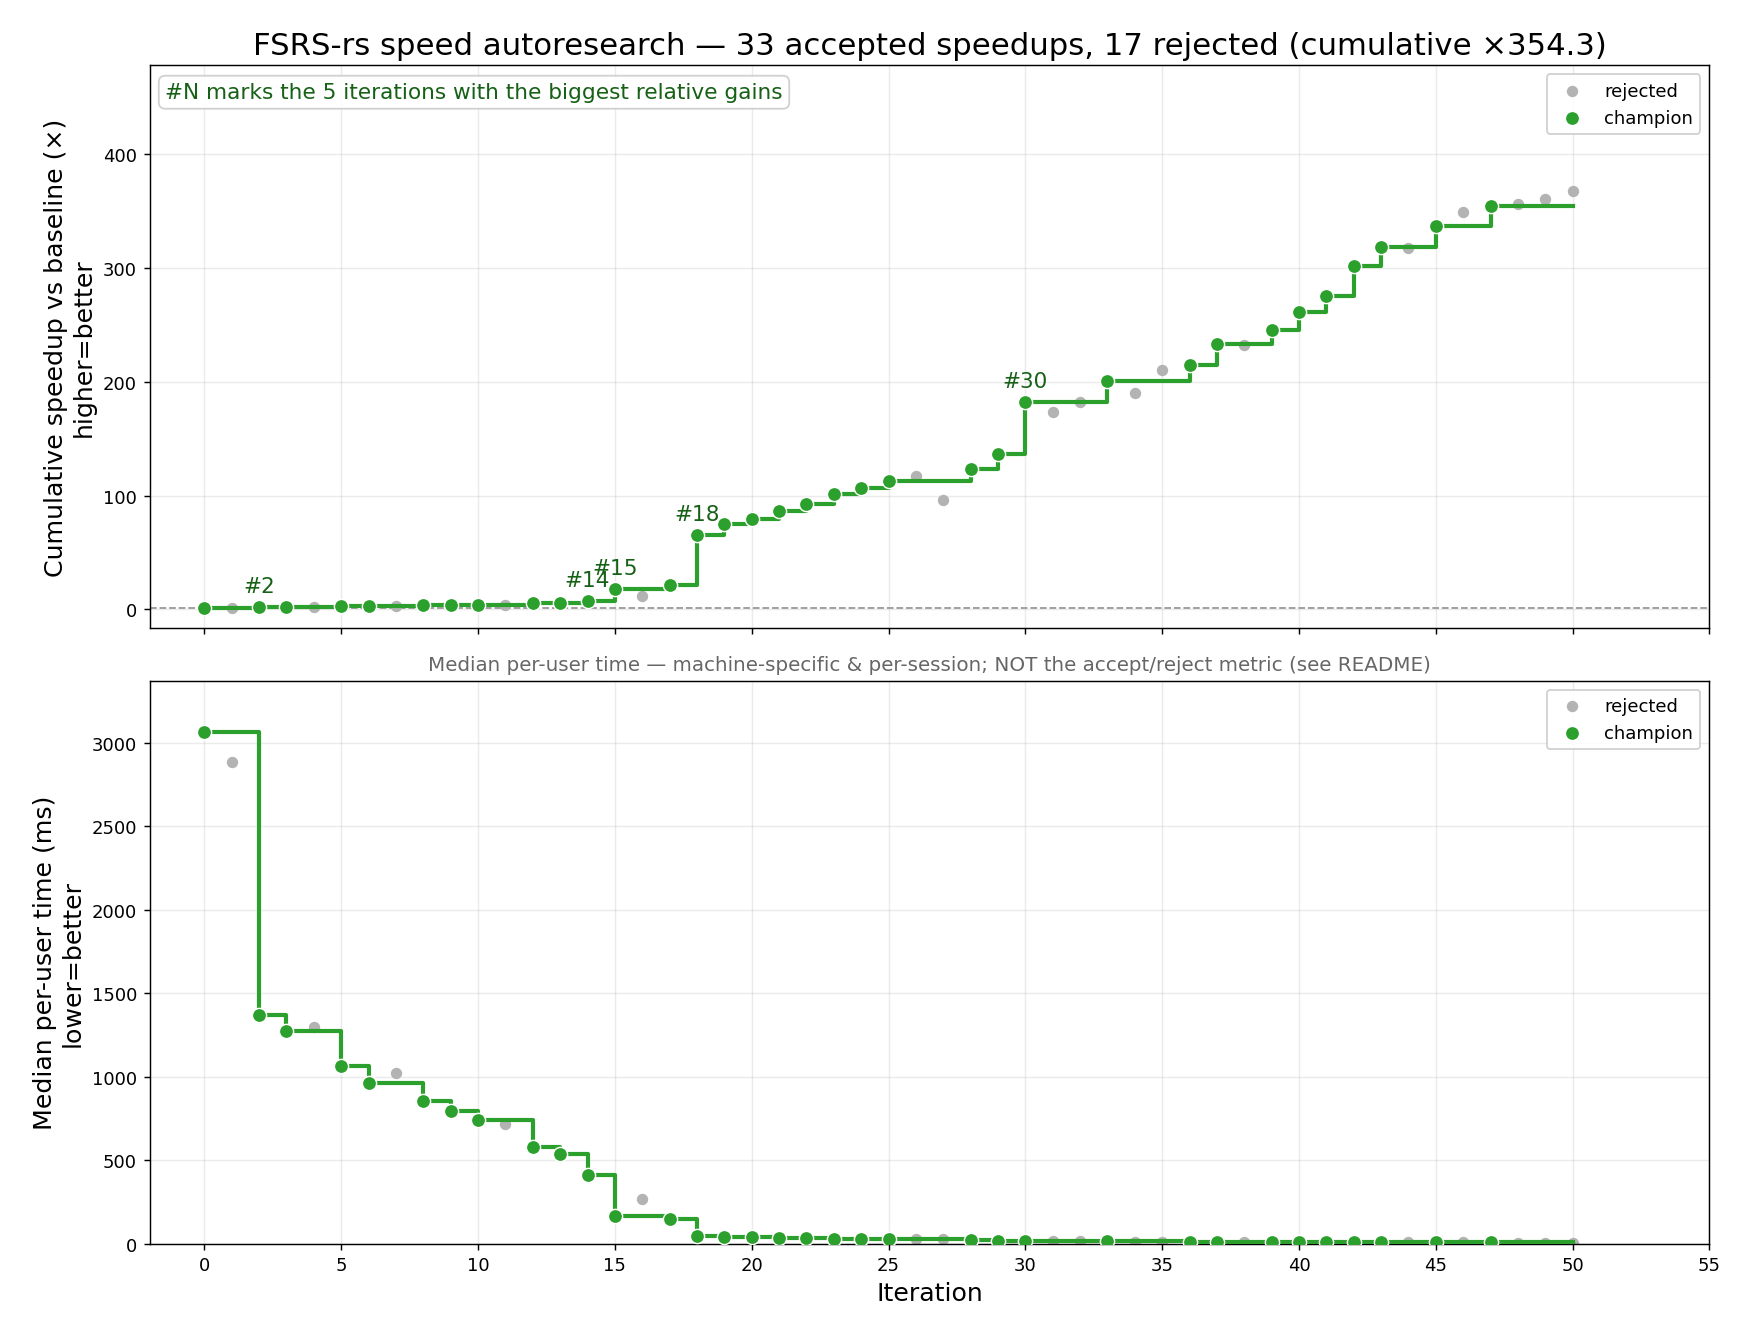
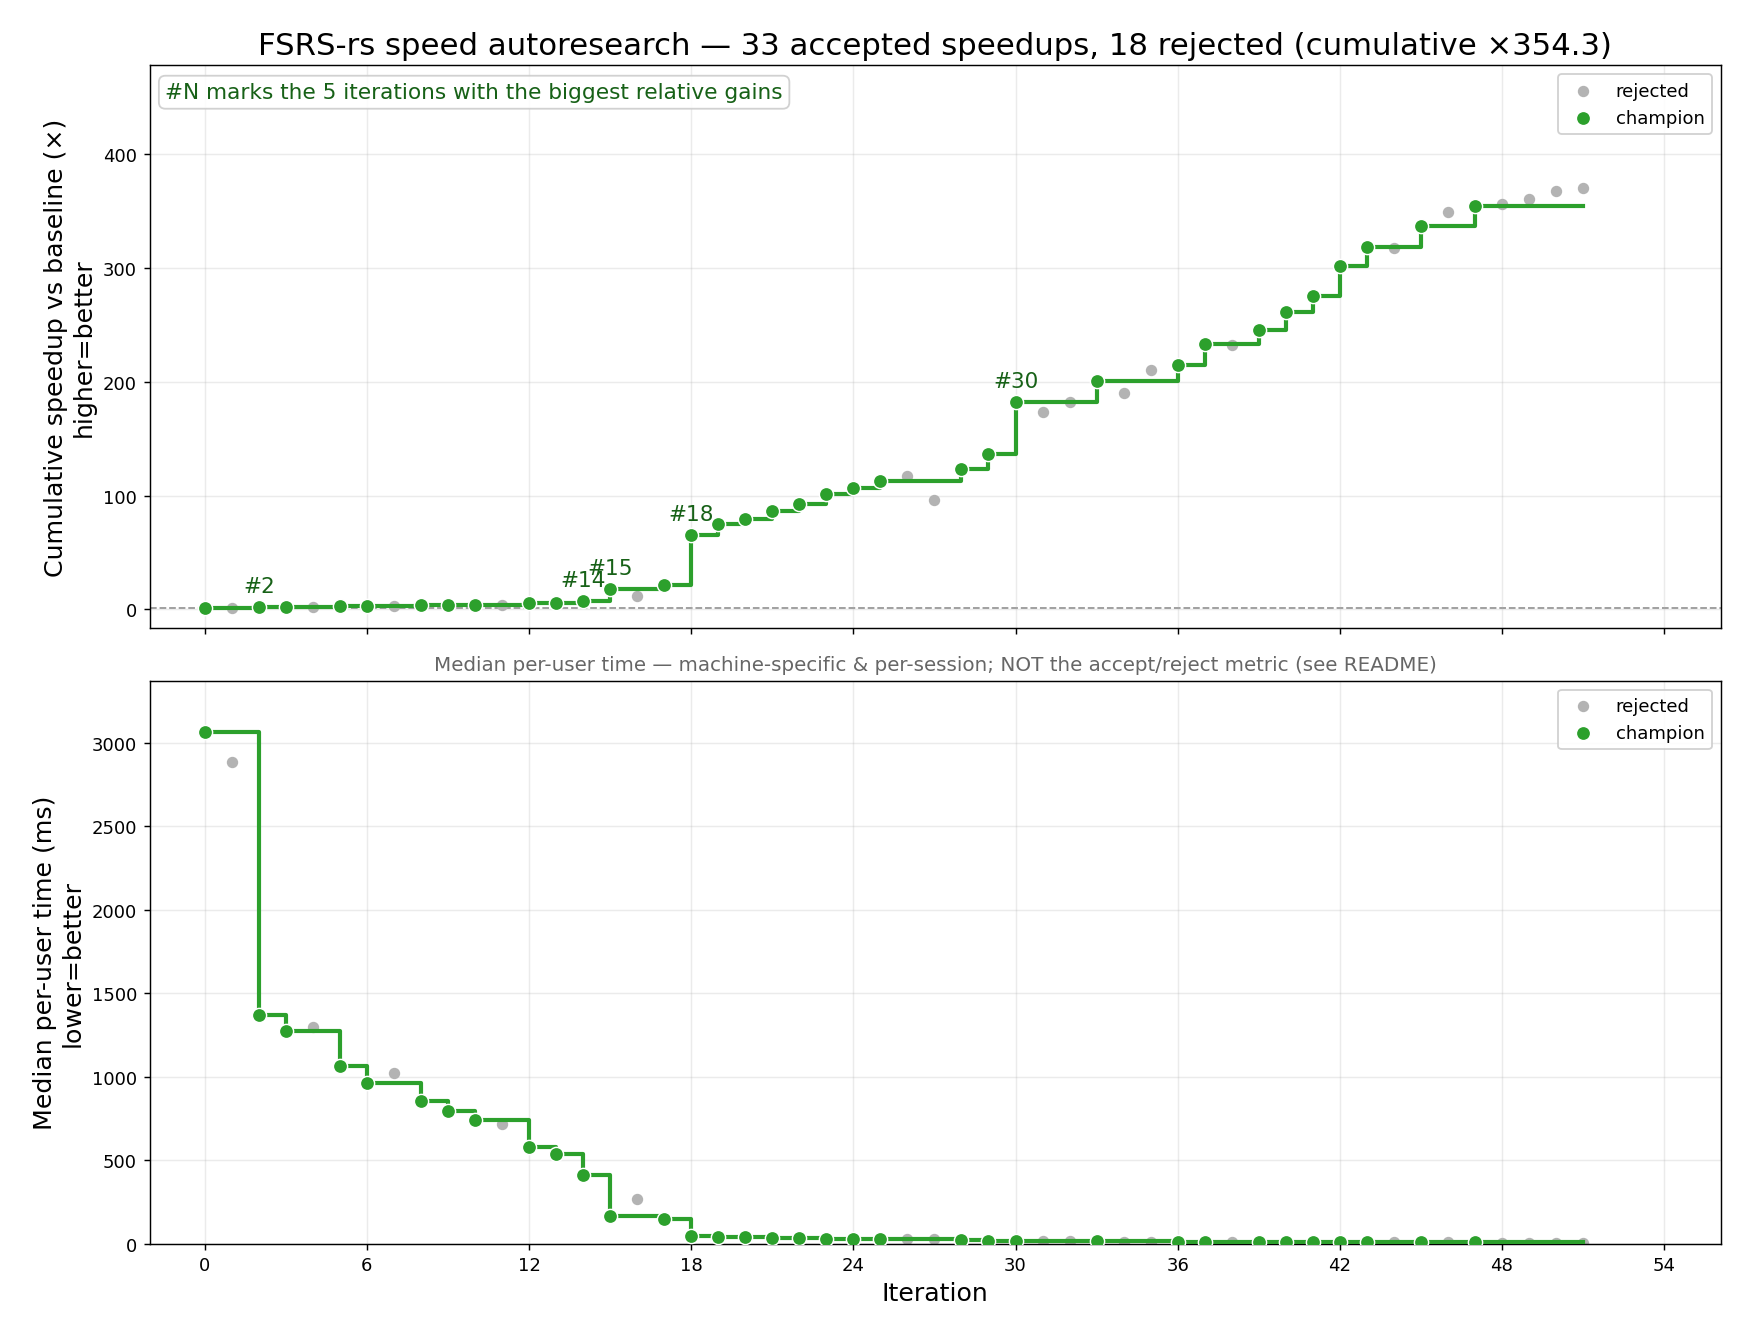
iter51 REJECTED (x1.045, kept for stacking): presized plan map, counting sort by length, main lays out the first batch

diff --git a/fsrs-rs/src/training.rs b/fsrs-rs/src/training.rs
@@ -1592,8 +1592,12 @@ impl CardedPlan {
         // One pass in input order over the item headers only (a prefix's label is the rating of
         // review t of its card's longest prefix, and its weight depends only on its index, so both
         // are read at layout time — no per-item heap access here).
-        let mut card_index: HashMap<i64, usize, BuildHasherDefault<CardIdHasher>> = HashMap::default();
-        let mut cards: Vec<PlanCard> = Vec::new();
+        // Each card has one prefix of length 2 (its first prediction): their count sizes the map
+        // and the card list, so neither grows (a map rehash moves every entry).
+        let n_cards = items.iter().filter(|item| item.reviews.len() == 2).count();
+        let mut card_index: HashMap<i64, usize, BuildHasherDefault<CardIdHasher>> =
+            HashMap::with_capacity_and_hasher(n_cards, BuildHasherDefault::default());
+        let mut cards: Vec<PlanCard> = Vec::with_capacity(n_cards);
         // Each item's card (u32::MAX = skipped): 4 bytes per item, so the plan touches fewer fresh
         // pages; the grouping below reads t from the item again (in order).
         let mut item_card: Vec<u32> = Vec::with_capacity(items.len());
@@ -1631,16 +1635,25 @@ impl CardedPlan {
                 fill[ci as usize] += 1;
             }
         }
-        // Sort by (full length, card id) as ONE u128 key (the id's sign bit flipped so the unsigned
-        // order is the signed one; the card index in the low bits): a total order, the same one.
-        let mut keys: Vec<u128> = (cards.iter().enumerate())
-            .map(|(ci, card)| {
-                let id = card_ids[card.longest as usize] as u64 ^ (1 << 63);
-                (card.full_len as u128) << 96 | (id as u128) << 32 | ci as u128
-            })
-            .collect();
-        keys.sort_unstable();
-        let order: Vec<usize> = keys.iter().map(|&k| k as u32 as usize).collect();
+        // Order the cards by (full length, card id), a total order (a card's id is unique): a
+        // counting sort by full length (<= max_seq_len), then each length's cards by id.
+        let mut at = vec![0usize; max_seq_len + 2];
+        for card in &cards {
+            at[card.full_len as usize + 1] += 1;
+        }
+        for l in 1..at.len() {
+            at[l] += at[l - 1];
+        }
+        let mut keys = vec![(0i64, 0u32); cards.len()];
+        let mut fill = at.clone();
+        for (ci, card) in cards.iter().enumerate() {
+            keys[fill[card.full_len as usize]] = (card_ids[card.longest as usize], ci as u32);
+            fill[card.full_len as usize] += 1;
+        }
+        for l in at.windows(2) {
+            keys[l[0]..l[1]].sort_unstable_by_key(|k| k.0);
+        }
+        let order: Vec<usize> = keys.iter().map(|k| k.1 as usize).collect();
         let mut bounds = Vec::new();
         let (mut first, mut current_preds) = (0, 0);
         for (k, &ci) in order.iter().enumerate() {
@@ -1799,8 +1812,10 @@ impl GradShared<'_> {
 
     /// The second thread: lay out the windowed batches in the order training first uses them, free
     /// the prefix-items, then help with every published job.
-    fn helper(&self, plan: CardedPlan, items: Vec<FSRSItem>, card_ids: Vec<i64>, first_order: &[usize]) {
-        let weight = recency_weight_tuned();
+    fn helper(
+        &self, plan: CardedPlan, items: Vec<FSRSItem>, card_ids: Vec<i64>, first_order: &[usize],
+        weight: impl Fn(usize, f32) -> f32,
+    ) {
         for &b in first_order {
             let _ = self.host[b].set(plan.layout(&items, b, &weight));
         }
@@ -1937,8 +1952,11 @@ fn train<B: AutodiffBackend>(
             }
         }
         TrainBatches::Planned(plan, items, card_ids) => {
-            let (shared, first_order) = (&shared, &first_order);
-            scope.spawn(move || shared.helper(plan, items, card_ids, first_order));
+            // The first batch is laid out here: starting the helper thread takes ~0.1 ms.
+            let weight = recency_weight_tuned();
+            let _ = train_host[first_order[0]].set(plan.layout(&items, first_order[0], &weight));
+            let (shared, rest) = (&shared, &first_order[1..]);
+            scope.spawn(move || shared.helper(plan, items, card_ids, rest, weight));
         }
     }
     for epoch in 1..=config.num_epochs {

diff --git a/result/history.md b/result/history.md
@@ -55,6 +55,7 @@ Accept metric: **median per-user speed_ratio ≥ 1.05** (constraint 12) AND **sp
 | 48 | 7 | 6 | 1.006 | 11258 | 11317 | 1.005 | 1.013 | ✓ | rejected | Batch's last card group with at most 4 cards runs on a 4-lane kernel |
 | 49 | 7 | 7 | 1.018 | 11258 | 11317 | 1.005 | 1.013 | ✓ | rejected | iter48 plus stab backward and curve forward reordered so values die early |
 | 50 | 7 | 6 | 1.036 | 11258 | 11304 | 1.004 | 1.010 | ✓ | rejected | iter49 plus items freed in idle waits and first step in its own struct |
+| 51 | 7 | 6 | 1.045 | 11258 | 11339 | 1.007 | 1.018 | ✓ | rejected | iter50 plus presized plan map, counting sort by length, main lays out first batch |
 
 **Cumulative speed_ratio (product of accepted): ×354.263** — upward-biased (winner's curse); anchor periodically vs iter-0 baseline.
 
